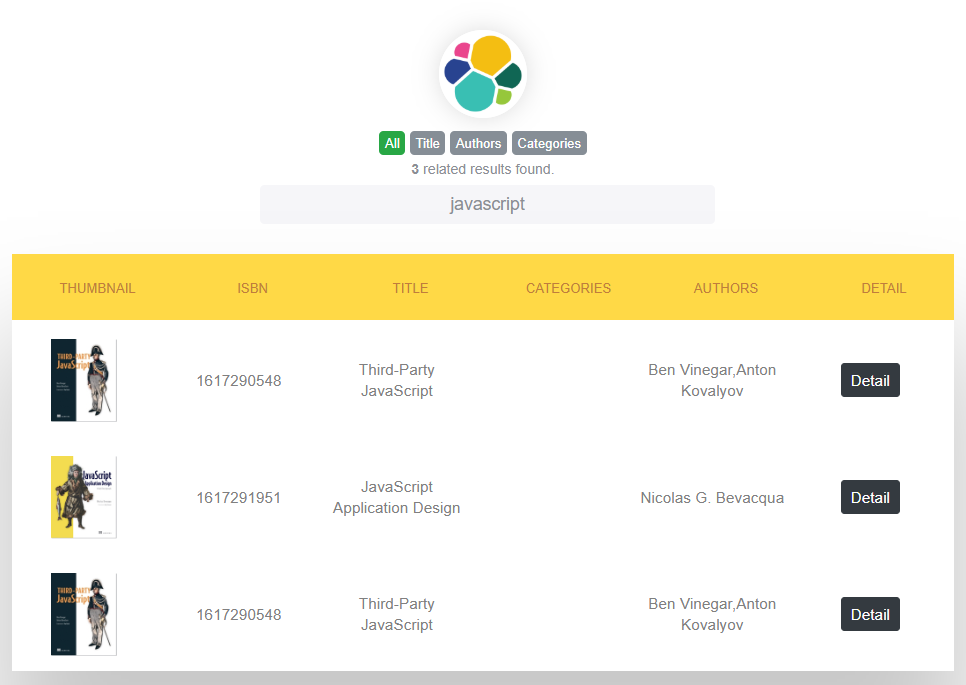
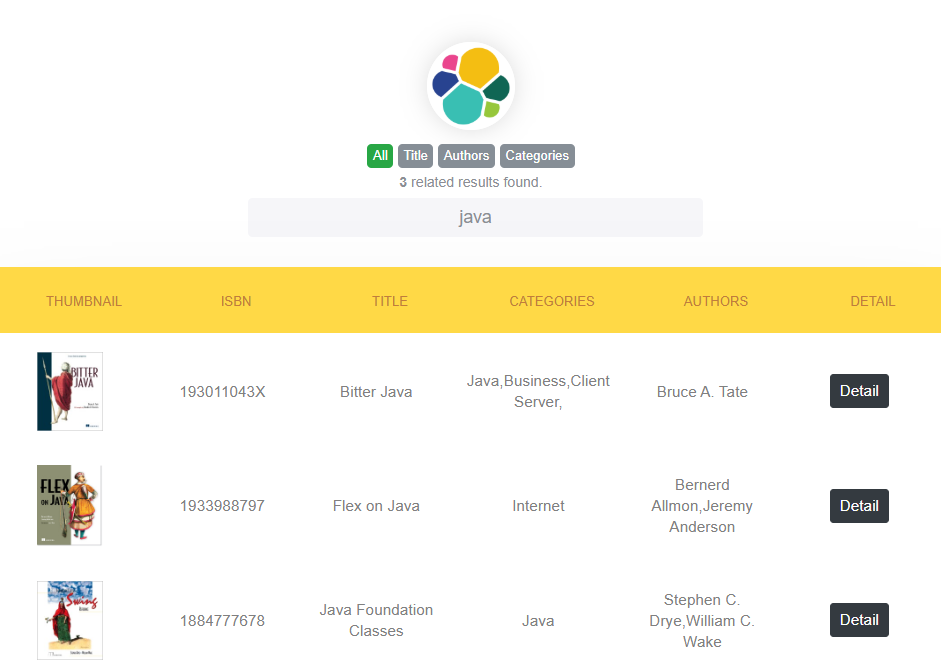
changed images. the text was translated into english.

diff --git a/index.php b/index.php
@@ -35,20 +35,22 @@
                 </div>
                 <br>
                 <div class="row text-center">
-                    <table data-vertable="ver1" id="table" style="display: none;">
-                        <thead>
-                        <tr class="row100 head">
-                            <th class="column100 ">Thumbnail</th>
-                            <th class="column100 ">Isbn</th>
-                            <th class="column100 ">Title</th>
-                            <th class="column100 ">Categories</th>
-                            <th class="column100 ">Authors</th>
-                            <th class="column100 ">Detail</th>
-                        </tr>
-                        </thead>
-                        <tbody id="table-row">
-                        </tbody>
-                    </table>
+                    <div class="col-8 mx-auto">
+                        <table data-vertable="ver1" id="table" style="display: none;">
+                            <thead>
+                            <tr class="row100 head">
+                                <th class="column100 ">Thumbnail</th>
+                                <th class="column100 ">Isbn</th>
+                                <th class="column100 ">Title</th>
+                                <th class="column100 ">Categories</th>
+                                <th class="column100 ">Authors</th>
+                                <th class="column100 ">Detail</th>
+                            </tr>
+                            </thead>
+                            <tbody id="table-row">
+                            </tbody>
+                        </table>
+                    </div>
                 </div>
             </div>
         </div>

diff --git a/Adapter/ElasticSearchAdapter.php b/Adapter/ElasticSearchAdapter.php
@@ -24,7 +24,7 @@ class ElasticSearchAdapter implements ISearchEngineAdapter
         $total = $this->response['hits']['total']['value'];
 
         $response = [
-            'message' => '<small>İlişkili <b>'.$total.'</b> sonuç bulundu.</small>',
+            'message' => '<small><b>'.$total.'</b> related results found.</small>',
             'data' => []
         ];
 

diff --git a/README.md b/README.md
@@ -1,5 +1,5 @@
 # php-elasticsearch-client
-In this example, **adapter pattern** is implemented with php and elasticsearch.
+In this example, **adapter pattern** is implemented with php and elasticsearch. For example, the book data in the books.json was used.
 
 Firstly must install elasticsearch. [Click](https://www.elastic.co/guide/en/apm/get-started/current/install-elasticsearch.html) for installation steps.
 
